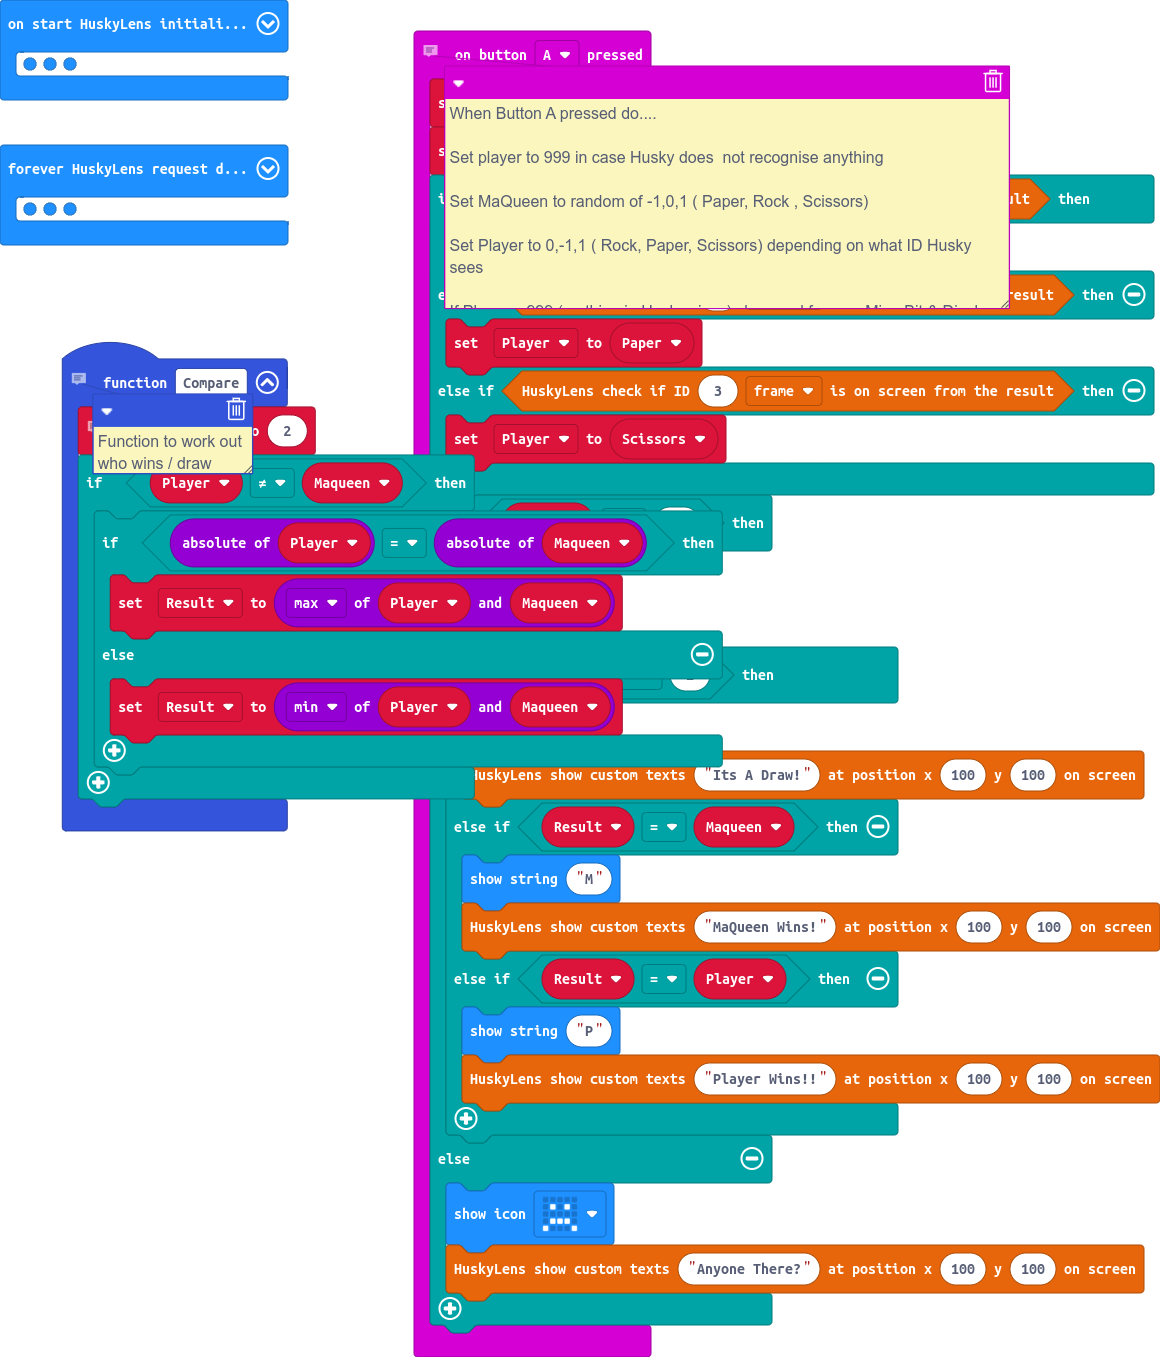
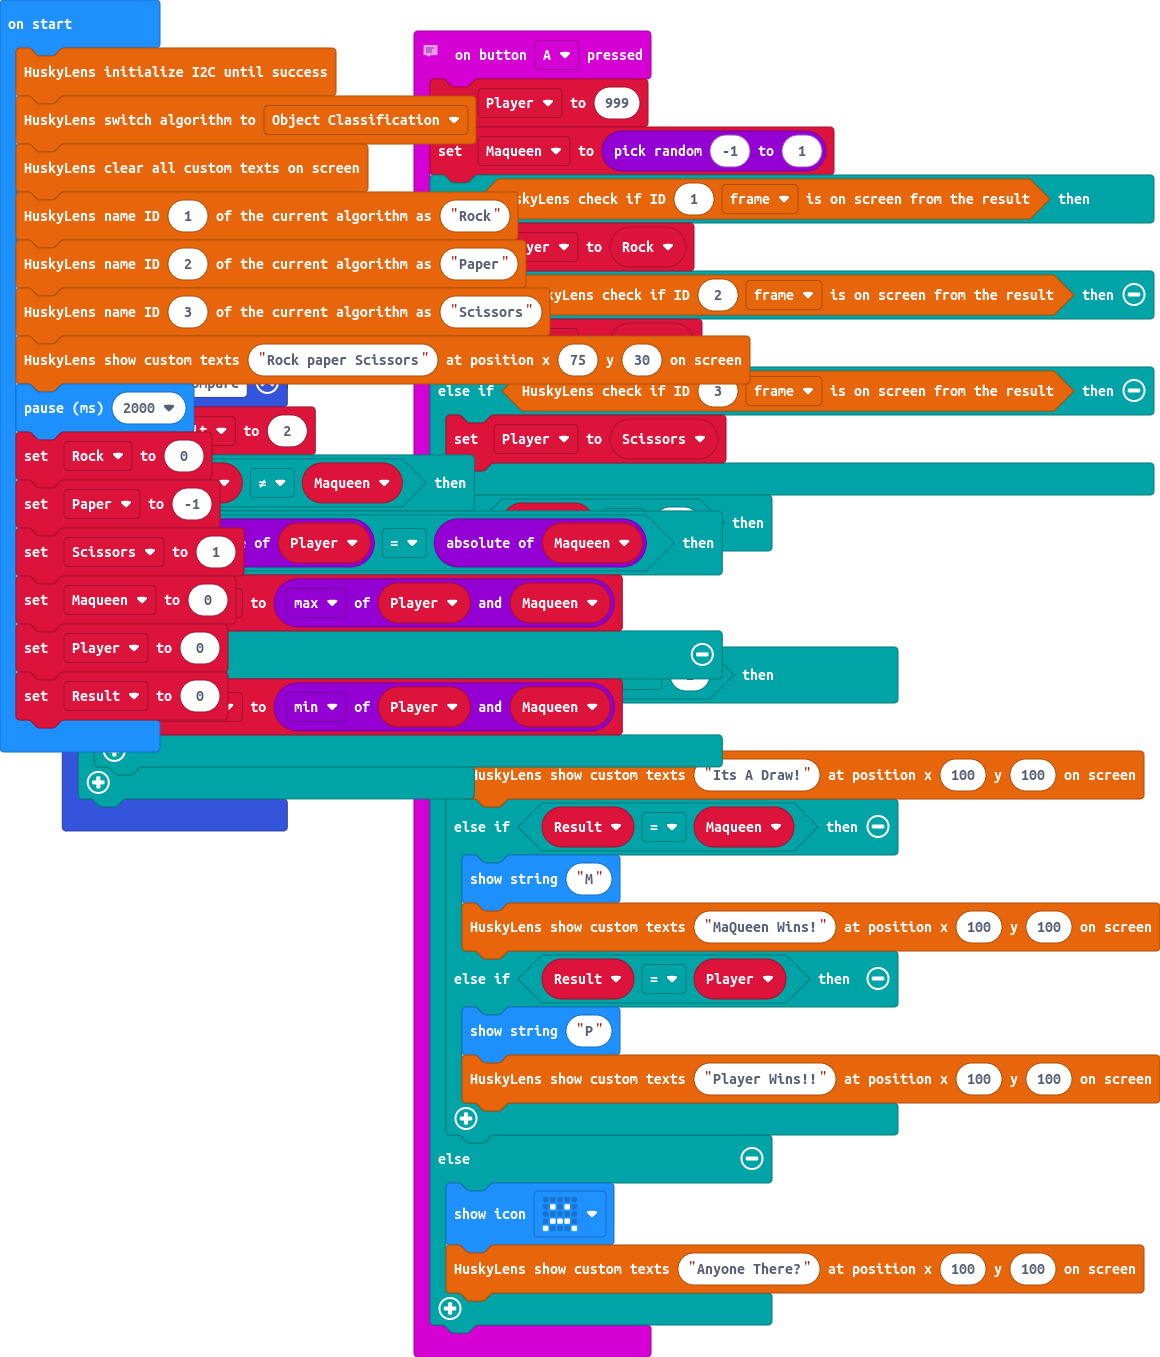
set player variable to 0 in ONSTART

Changed region(s): [[0.0, 0.0, 0.869, 0.5571]]

diff --git a/main.ts b/main.ts
@@ -73,7 +73,7 @@ Rock = 0
 Paper = -1
 Scissors = 1
 Maqueen = 0
-Player = 999
+Player = 0
 Result = 0
 basic.forever(function () {
     huskylens.request()
